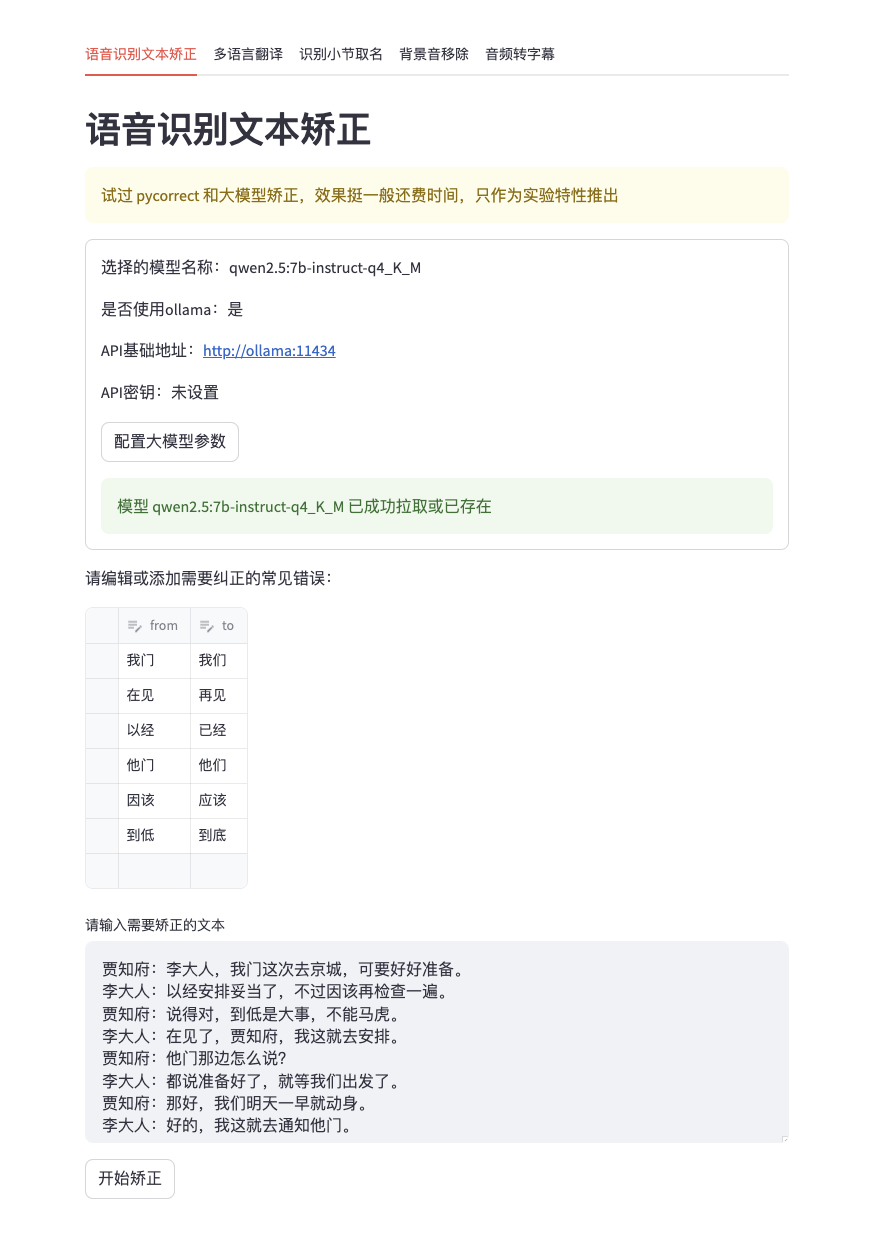
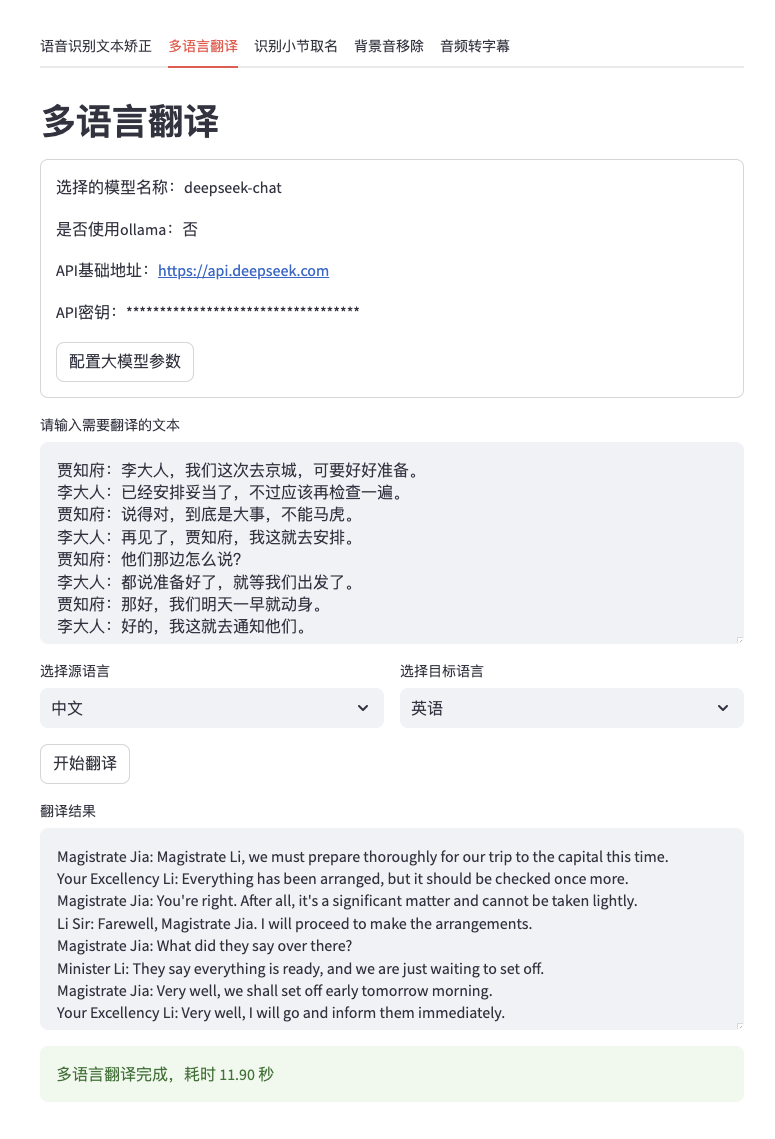
feat: llm select

diff --git a/services/streamlit/components/form.py b/services/streamlit/components/form.py
@@ -1,22 +1,35 @@
 import streamlit as st
 from typing import List
 import pandas as pd
-from packages.llm import MODEL_CONFIGS
+from packages.llm import getModelConfig, getProvider, PROVIDER_CONFIG, PROVIDER_OLLAMA, PROVIDER_DEEPSEEK
 from packages.ollama import OllamaHandler
 from packages.openai import OpenAIHandler
 import asyncio
 
 @st.dialog("配置大模型参数")
 def config_dialog(key_prefix, config_key):
-    # 使用ollama勾选框
-    use_ollama = st.checkbox(
-        "使用Ollama", 
-        value=st.session_state[config_key]['use_ollama'], 
-        help="勾选此选项将尝试自动通过 ollama API 拉取所需的大模型",
-        key=f'{key_prefix}_use_ollama'
+    # 供应商选择
+    provider_options = [(config['provider'], config) for config in PROVIDER_CONFIG]
+    selected_provider_name = st.radio(
+        "请选择模型供应商",
+        options=[option[0] for option in provider_options],
+        index=next((i for i, option in enumerate(provider_options) if option[1]['provider'] == st.session_state[config_key]['provider']), 0),
+        key=f'{key_prefix}_provider_radio',
+        captions=[option[1]['comment'] for option in provider_options]  # 添加供应商描述作为caption
     )
-    st.session_state[config_key]['use_ollama'] = use_ollama
-
+    
+    # 立即更新供应商配置
+    selected_provider = getProvider(selected_provider_name)
+    model_configs = getModelConfig(selected_provider_name)
+    
+    # 更新session_state中的配置
+    st.session_state[config_key].update({
+        'provider': selected_provider_name,
+        'use_ollama': selected_provider['provider'] == PROVIDER_OLLAMA,
+        'openai_url': selected_provider['endpoint'],
+        'model': model_configs[0]['model']
+    })
+    
     # API地址输入
     openai_url = st.text_input(
         "API地址", 
@@ -42,6 +55,9 @@ def config_dialog(key_prefix, config_key):
         help="可替换为更大的 ollama 模型或 deepseek 等提升质量，连接外部模型时需要先修改 API 地址"
     )
     
+    # 获取当前供应商的模型配置
+    model_configs = getModelConfig(selected_provider_name)
+    
     if custom_model:
         # 自定义模型输入框
         model = st.text_input(
@@ -49,30 +65,30 @@ def config_dialog(key_prefix, config_key):
             value=st.session_state[config_key]['model'],
             key=f'{key_prefix}_custom_model_input'
         )
+        st.session_state[config_key]['model'] = model
     else:
         # 模型选择单选，显示name，返回model
-        model_options = [(config['name'], config["model"], config['comment']) for config in MODEL_CONFIGS]
+        model_options = [(config['name'], config["model"], config['comment']) for config in model_configs]
         selected = st.radio(
             "请选择模型",
             options=[option[0] for option in model_options],
-            index=next(i for i, option in enumerate(model_options) if option[1] == st.session_state[config_key]['model']),
+            index=next((i for i, option in enumerate(model_options) if option[1] == st.session_state[config_key]['model']), 0),
             key=f'{key_prefix}_model_radio',
             captions=[option[2] for option in model_options]
         )
         model = next(option[1] for option in model_options if option[0] == selected)
+        # 立即更新模型配置
+        st.session_state[config_key]['model'] = model
     
-    st.session_state[config_key]['model'] = model
-
     if st.button("保存并生效", key=f"{key_prefix}_save_config_button"):
         st.rerun()
     return st.session_state[config_key]
 
-async def model_selection(key_prefix: str = "default", default_model: str = None):
+async def model_selection(key_prefix: str = "default"):
     """大模型选择组件
     
     参数:
         key_prefix: 用于拼接st组件key的前缀，默认为"default"
-        default_model: 默认模型名称，如果未提供则使用MODEL_CONFIGS中的第一个模型
     
     返回:
         model: 选择的模型名称
@@ -82,12 +98,17 @@ async def model_selection(key_prefix: str = "default", default_model: str = None
     """
     # 初始化session_state中的配置项，按key_prefix区分
     config_key = f'llm_config_{key_prefix}'
+    default_provider_name = PROVIDER_OLLAMA
+    default_provider = getProvider(default_provider_name)
+    default_provider_config = getModelConfig(default_provider_name)
+
     if config_key not in st.session_state:
         st.session_state[config_key] = {
-            'model': default_model or MODEL_CONFIGS[0]['model'],
+            'model': default_provider_config[0]['model'],
             'use_ollama': True,
-            'openai_url': "http://ollama:11434",
-            'openai_key': ""
+            'openai_url': default_provider["endpoint"],
+            'openai_key': "",
+            "provider": default_provider_name
         }
     # 显示当前配置
     with st.container(border=True):

diff --git a/services/streamlit/packages/llm.py b/services/streamlit/packages/llm.py
@@ -1,14 +1,56 @@
+# 定义供应商常量
+PROVIDER_OLLAMA = "ollama"
+PROVIDER_DEEPSEEK = "deepseek"
+PROVIDER_OPENAI = "openai"
+
+# 定义供应商配置
+PROVIDER_CONFIG = [
+    {
+        "provider": PROVIDER_OLLAMA,
+        "name": "Ollama",
+        "comment": "本地运行的轻量级大模型服务，支持多种开源模型，适合本地部署",
+        "endpoint": "http://ollama:11434"
+    },
+    {
+        "provider": PROVIDER_DEEPSEEK,
+        "name": "DeepSeek",
+        "comment": "深度求索提供的API服务，中文处理能力强，性能优异",
+        "endpoint": "https://api.deepseek.com"
+    },
+    {
+        "provider": PROVIDER_OPENAI,
+        "name": "OpenAI",
+        "comment": "全球领先的AI服务提供商，模型性能强大但需要网络连接",
+        "endpoint": "https://api.openai.com"
+    }
+]
+
+def getProvider(provider: str) -> dict:
+    """根据供应商名称获取对应的配置信息
+    
+    参数:
+        provider: 供应商名称，可选值为 PROVIDER_OLLAMA, PROVIDER_DEEPSEEK, PROVIDER_OPENAI
+    
+    返回:
+        dict: 包含供应商配置信息的字典
+    
+    异常:
+        ValueError: 当传入的供应商名称无效时抛出
+    """
+    for config in PROVIDER_CONFIG:
+        if config['provider'] == provider:
+            return config
+    raise ValueError(f"Invalid provider: {provider}. Available providers are: {[p['provider'] for p in PROVIDER_CONFIG]}")
+
+
+
 # 定义模型常量
 MINICPM3_MODEL = "yefx/minicpm3_4b:latest"
 QWEN2_5_MODEL = "qwen2.5:7b-instruct-q4_K_M"
 QWEN2_5_14B_MODEL = "qwen2.5:14b-instruct-q4_K_M"
 
-MODEL_CONFIGS = [
-    {
-        "model": MINICPM3_MODEL,
-        "name": "minicpm3-4B-Q4_K_M",
-        "comment": "本地运行的轻量模型，运行速度快，对中英文的处理较好",
-    },
+# 定义不同供应商的模型配置
+OLLAMA_MODEL_CONFIG = [
     {
         "model": QWEN2_5_MODEL,
         "name": "Qwen2.5-7B-Instruct-Q4_K_M",
@@ -18,5 +60,57 @@ MODEL_CONFIGS = [
         "model": QWEN2_5_14B_MODEL,
         "name": "Qwen2.5-14B-Instruct-Q4_K_M",
         "comment": "更强大的多语言模型，支持多种任务，性能更优但速度较慢，翻译、纠错效果最好",
+    },
+    {
+        "model": MINICPM3_MODEL,
+        "name": "minicpm3-4B-Q4_K_M",
+        "comment": "本地运行的轻量模型，运行速度快，对中英文的处理较好",
+    },
+]
+
+DEEPSEEK_MODEL_CONFIG = [
+    {
+        "model": "deepseek-chat",
+        "name": "DeepSeek Chat",
+        "comment": "深度求索的对话模型，适合中文场景",
+    },
+    {
+        "model": "deepseek-r1",
+        "name": "DeepSeek R1",
+        "comment": "深度求索的 COT 推理模型，质量更好但更慢",
     }
 ]
+
+OPENAI_MODEL_CONFIG = [
+    {
+        "model": "gpt-4o",
+        "name": "GPT-4O",
+        "comment": "OpenAI的最强模型，性能最好但成本较高",
+    },
+    {
+        "model": "gpt-3.5-turbo",
+        "name": "GPT-3.5 Turbo",
+        "comment": "OpenAI的快速模型，性价比高",
+    },
+]
+
+def getModelConfig(provider: str):
+    """根据供应商获取对应的模型配置
+    
+    参数:
+        provider: 供应商名称，可选值：ollama/deepseek/openai
+    
+    返回:
+        list: 对应的模型配置列表
+    
+    异常:
+        ValueError: 当传入不支持的供应商时抛出
+    """
+    if provider == PROVIDER_OLLAMA:
+        return OLLAMA_MODEL_CONFIG
+    elif provider == PROVIDER_DEEPSEEK:
+        return DEEPSEEK_MODEL_CONFIG
+    elif provider == PROVIDER_OPENAI:
+        return OPENAI_MODEL_CONFIG
+    else:
+        raise ValueError(f"Unsupported provider: {provider}")

diff --git a/services/streamlit/components/home.py b/services/streamlit/components/home.py
@@ -130,7 +130,7 @@ async def step_translate_config():
     enable_translate = st.checkbox("启用多语言字幕翻译", value=False)
     if enable_translate:
         from_lang, to_lang = select_translate_languages()
-        openai_config = await model_selection(key_prefix="main_translate", default_model=QWEN2_5_MODEL)
+        openai_config = await model_selection(key_prefix="main_translate")
         st.session_state.config['translate'] = {
             'from': from_lang,
             'to': to_lang,
@@ -144,7 +144,7 @@ async def step_correct_config():
     st.warning("这是实验性功能，可能会带来误修正、歌词错位等问题，请谨慎使用")
     enable_correct = st.checkbox("启用文本纠错", value=False)
     if enable_correct:
-        openai_config = await model_selection(key_prefix="main_correct", default_model=QWEN2_5_MODEL)
+        openai_config = await model_selection(key_prefix="main_correct")
         common_errors = get_text_correct_common_errors()
         st.session_state.config['correct'] = {
             'openai': openai_config.get_config(),
@@ -159,7 +159,7 @@ async def step_title_config():
     openai_config = None
     lang="zh-CN"
     if generate_title:
-        openai_config = await model_selection(key_prefix="main_title", default_model=QWEN2_5_MODEL)
+        openai_config = await model_selection(key_prefix="main_title")
         # 新增选择目标语言
         lang = select_target_language(label="标题生成语言")
     col1, col2 = st.columns(2)

diff --git a/services/streamlit/pages/4_服务功能性测试.py b/services/streamlit/pages/4_服务功能性测试.py
@@ -11,7 +11,7 @@ async def render_text_correction():
     st.warning("试过 pycorrect 和大模型矫正，效果挺一般还费时间，只作为实验特性推出")
     
     # 获取模型参数
-    openai_handler = await model_selection(key_prefix="text_correction", default_model=QWEN2_5_MODEL)
+    openai_handler = await model_selection(key_prefix="text_correction")
 
     # 初始化TextCorrector
     from packages.text import TextCorrector
@@ -55,7 +55,7 @@ async def render_translation():
     st.header("多语言翻译")
     
     # 获取模型参数
-    openai_handler = await model_selection(key_prefix="translate", default_model=QWEN2_5_MODEL)
+    openai_handler = await model_selection(key_prefix="translate")
 
     # 初始化OpenAITranslator
     from packages.translate import OpenAITranslator
@@ -97,7 +97,7 @@ async def render_title_generation():
     st.header("识别小节取名")
     
     # 获取模型参数
-    openai_handler = await model_selection(key_prefix="title", default_model=QWEN2_5_MODEL)
+    openai_handler = await model_selection(key_prefix="title")
 
     # 初始化TitleGenerator
     from packages.text import TitleGenerator

diff --git a/services/streamlit/pages/3_检查离线输出目录.py b/services/streamlit/pages/3_检查离线输出目录.py
@@ -90,7 +90,7 @@ async def render_page():
 
     # 标题重新生成表单
     with st.expander("标题重新生成设置", expanded=True):
-        openai_config = await model_selection(key_prefix="regenerate_title", default_model=QWEN2_5_MODEL)
+        openai_config = await model_selection(key_prefix="regenerate_title")
         col1, col2 = st.columns(2)
         with col1:
             book_title = st.text_input("书名（可选）", value="")
